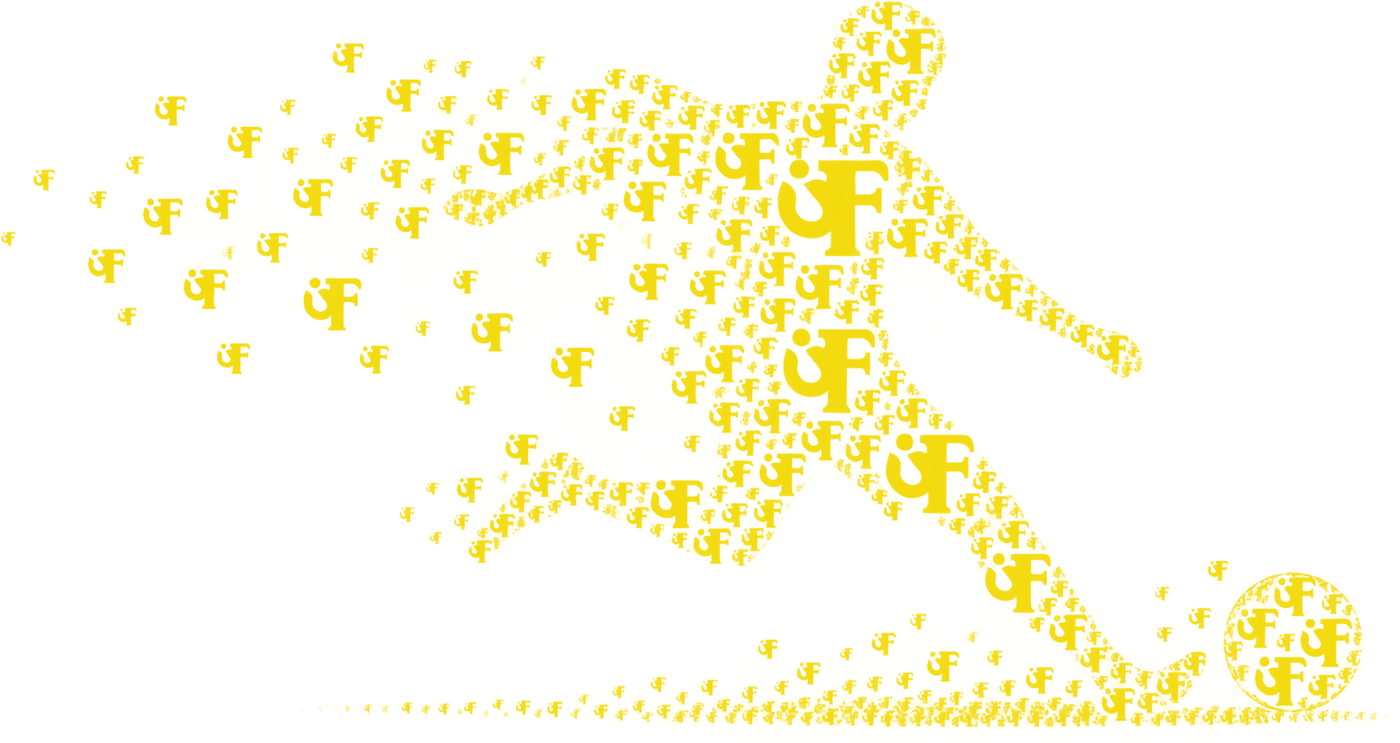
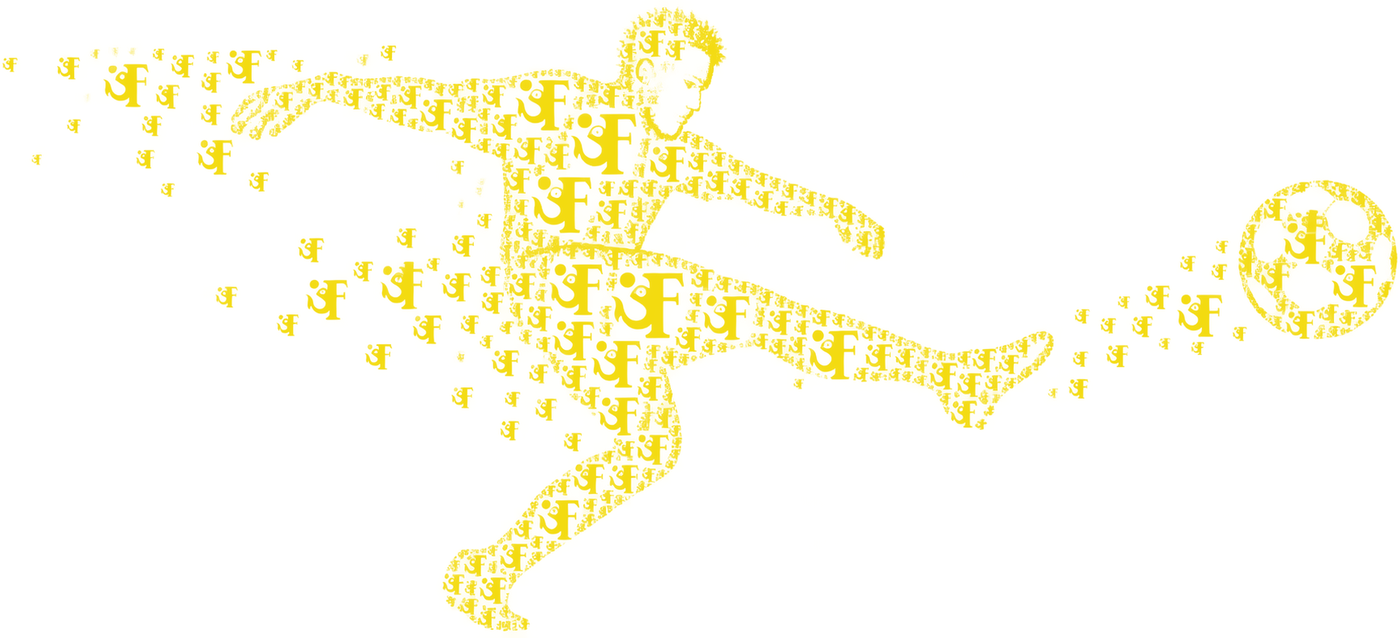
Neuer Spieler, ueber die volle Breite, und ein flacheres Chronikband
DREI AENDERUNGEN.

1. NEUES SPIELERBILD. fussballer.png ersetzt die erste Fassung. Die
   zeigte den Spieler viel loser aufgeloest, als Grund war die Figur
   kaum als Spieler zu erkennen, man sah vor allem Partikel. Der neue
   zeigt einen Schuss mit Ball.

   1983 x 793 angeliefert, mit Alphakanal, 91,2 Prozent transparent,
   0 Prozent schwarz. Beschnitten auf 1740 x 793, verarbeitet auf
   1400 x 638 und einfarbig auf Vereinsgelb gesetzt.

   DAS SEITENVERHAELTNIS HAT SICH GEAENDERT, von 1,88 auf 2,19. Die
   height-Angabe am Image musste mit, sonst rechnet Next mit einem
   falschen Kasten und das Bild springt beim Laden. An fuenf Stellen
   angepasst.

2. UEBER DIE VOLLE BREITE, auf Wunsch zum Ansehen. Vorher 1100 Pixel
   breit und links angeschnitten, jetzt die volle Abschnittsbreite.
   Kontrast unveraendert bei 5,29 zu 1 gegen die leise Schrift, null
   von 416020 gemessenen Punkten unter der Grenze von 4,5.

3. DAS CHRONIKBAND IST FLACHER, von 185 auf 145 Pixel. Der
   Auftraggeber fand es "viel zu hoch also dick".

   Gekuerzt an drei Stellen statt an einer: Innenabstand des Bandes von
   32 auf 20, Abstand zur Kopfzeile von 28 auf 20, Platz ueber den
   Baellen von 44 auf 32. Die Ballgroessen bleiben, sie tragen den
   Anstieg, und unter 18 Pixel verschwinden die Naehte des kleinsten.

   DABEI EIN EIGENER RECHENFEHLER, gemessen und behoben: Nach dem
   Kuerzen lag der ERSTE Ball 4 Pixel auf der Jahreszeile. Ich hatte
[…]

diff --git a/components/Erfolgstreppe.tsx b/components/Erfolgstreppe.tsx
@@ -64,6 +64,25 @@ import chronik from "@/content/chronik.json";
  */
 
 /*
+ * HÖHE DES BANDES, angepasst am 08.09.2026: Der Auftraggeber fand die
+ * gelbe Leiste "viel zu hoch also dick". Gemessen war sie 185 Pixel.
+ *
+ * Gekürzt wurde an drei Stellen, nicht an einer: der Innenabstand des
+ * Bandes von 32 auf 20 Pixel, der Abstand zur Kopfzeile von 28 auf 20,
+ * und der Platz über den Bällen von 44 auf 32. Zusammen rund 45 Pixel.
+ *
+ * Warum nicht einfach die Bälle kleiner: Sie tragen den Anstieg. Wird
+ * der kleinste unter 18 Pixel groß, verschwinden seine Nähte, und dann
+ * ist er wieder nur ein Fleck.
+ *
+ * Der Platz über den Bällen ist die Untergrenze und kein runder Wert:
+ * Der größte Ball hat 30 Pixel und sitzt 11 Pixel über der Grundlinie,
+ * reicht also von -9 bis 21. Bei 32 Pixeln Innenabstand bleiben 11
+ * Pixel Luft zur Jahreszeile. Wer weiter kürzt, schiebt den Ball in
+ * die Schrift.
+ */
+
+/*
  * Wie weit die vier Bälle über und unter der gedachten Grundlinie
  * sitzen, in Pixeln. Sie stehen hier und nicht in den Daten, weil sie
  * eine Gestaltungsentscheidung sind: gleichmäßig um 7 Pixel steigend,
@@ -89,6 +108,21 @@ const PUNKTE_Y = [10, 3, -4, -11];
  */
 const BALL_GROESSEN = [18, 22, 26, 30];
 
+/*
+ * Der Bezugspunkt, um den die Bälle steigen, in Pixeln von der Oberkante
+ * des Eintrags.
+ *
+ * 12 und nicht 17, und das ist nachgemessen: Beim Kürzen des Bandes am
+ * 08.09.2026 lag der ERSTE Ball plötzlich 4 Pixel auf der Jahreszeile.
+ * Mein Rechenfehler dabei war, den größten Ball zu prüfen. Der sitzt
+ * aber am höchsten. Der tiefste ist der kleinste, weil er 10 Pixel
+ * unter dem Bezugspunkt liegt.
+ *
+ * Wer hier etwas ändert, prüft den ERSTEN Ball gegen die Jahreszeile,
+ * nicht den letzten.
+ */
+const BALL_BEZUG = 12;
+
 export default function Erfolgstreppe() {
   const stufen = chronik.stufen;
 
@@ -98,7 +132,7 @@ export default function Erfolgstreppe() {
         Der Weg des SV Fisch
       </h2>
 
-      <div className="container-fisch py-8">
+      <div className="container-fisch py-5">
         <div className="flex items-baseline justify-between gap-4">
           <p className="text-[11px] font-extrabold uppercase tracking-[0.2em] opacity-70">
             Der Weg des SV Fisch
@@ -125,9 +159,9 @@ export default function Erfolgstreppe() {
           Pixeln Innenabstand begann die Jahreszahl darunter, der Punkt lag
           auf ihr.
         */}
-        <ol className="mt-5 grid grid-cols-2 gap-x-6 gap-y-5 sm:mt-7 sm:grid-cols-4 sm:gap-8">
+        <ol className="mt-4 grid grid-cols-2 gap-x-6 gap-y-4 sm:mt-5 sm:grid-cols-4 sm:gap-8">
           {stufen.map((stufe, i) => (
-            <li key={stufe.jahr} className="relative sm:pt-11">
+            <li key={stufe.jahr} className="relative sm:pt-8">
               {/*
                 KEINE LINIE MEHR. Hier lief bis zum 08.09.2026 eine
                 dünne schwarze Linie hinter den Markierungen durch.
@@ -157,7 +191,7 @@ export default function Erfolgstreppe() {
                 style={{
                   width: `${BALL_GROESSEN[i]}px`,
                   height: `${BALL_GROESSEN[i]}px`,
-                  top: `${17 + (PUNKTE_Y[i] ?? 0) - BALL_GROESSEN[i] / 2}px`,
+                  top: `${BALL_BEZUG + (PUNKTE_Y[i] ?? 0) - BALL_GROESSEN[i] / 2}px`,
                 }}
               />
               <p className="text-[11px] font-extrabold uppercase tracking-[0.18em] opacity-70">

diff --git a/app/page.tsx b/app/page.tsx
@@ -147,10 +147,21 @@ export default function Home() {
         {/*
           Der Spieler als Grund des Abschnitts, seit 08.09.2026.
 
-          Angeliefert als Fischspieler.png, sauber freigestellt (90,6
+          Angeliefert als fussballer.png, sauber freigestellt (91,2
           Prozent transparent, 0 Prozent Schwarz), auf das Vereinsgelb
-          umgefaerbt und auf 1400 mal 743 gebracht. Original und
+          umgefaerbt und auf 1400 mal 638 gebracht. Original und
           Verarbeitungsschritte unter assets/quellen.
+
+          ZWEITE FASSUNG. Die erste zeigte den Spieler viel loser
+          aufgeloest, und als Grund war die Figur kaum als Spieler zu
+          erkennen, man sah vor allem Partikel. Die Datei in public
+          heisst absichtlich weiter fischspieler.png, damit nur ein Bild
+          ausgeliefert wird.
+
+          Das Seitenverhaeltnis ist dabei von 1,88 auf 2,19 gewechselt.
+          Wer das Bild noch einmal tauscht, prueft die height-Angabe am
+          Image: Sie muss zur Datei passen, sonst rechnet Next mit einem
+          falschen Kasten und das Bild springt beim Laden.
 
           ZUR DECKKRAFT, weil hier schon einmal etwas schiefging: Im
           Kopfbereich lag frueher das Wappen mit 8 Prozent hinter dem
@@ -185,9 +196,9 @@ export default function Home() {
           src="/fischspieler.png"
           alt=""
           width={1400}
-          height={743}
+          height={638}
           aria-hidden="true"
-          className="pointer-events-none absolute -left-40 bottom-0 hidden w-[1100px] max-w-none opacity-[0.26] sm:block"
+          className="pointer-events-none absolute inset-x-0 bottom-0 hidden w-full opacity-[0.26] sm:block"
         />
 
         {/* relative, damit der Inhalt ueber dem Motiv liegt. */}

diff --git a/components/vorschau/SpielerVarianten.tsx b/components/vorschau/SpielerVarianten.tsx
@@ -47,7 +47,7 @@ export function SpielerGrund() {
       src="/fischspieler.png"
       alt=""
       width={1400}
-      height={743}
+      height={638}
       aria-hidden="true"
       className="pointer-events-none absolute -left-40 bottom-0 hidden w-[1100px] max-w-none opacity-[0.14] sm:block"
     />
@@ -83,7 +83,7 @@ export function SpielerRechtsUnten() {
       src="/fischspieler.png"
       alt=""
       width={1400}
-      height={743}
+      height={638}
       aria-hidden="true"
       className="pointer-events-none absolute -bottom-8 -right-16 hidden w-[300px] max-w-none opacity-90 sm:block"
     />
@@ -113,7 +113,7 @@ export function SpielerBand() {
         src="/fischspieler.png"
         alt=""
         width={1400}
-        height={743}
+        height={638}
         aria-hidden="true"
         className="absolute -bottom-24 left-1/2 w-[900px] max-w-none -translate-x-1/2 opacity-40"
       />
@@ -141,7 +141,7 @@ export function SpielerLuecke() {
       src="/fischspieler.png"
       alt=""
       width={1400}
-      height={743}
+      height={638}
       aria-hidden="true"
       className="pointer-events-none absolute -bottom-4 left-[352px] hidden w-[420px] max-w-none opacity-80 sm:block"
     />

diff --git a/assets/quellen/LIESMICH.md b/assets/quellen/LIESMICH.md
@@ -21,3 +21,22 @@ Daraus wurde `public/fussballschuhe.png` (153 x 320, 11 KB):
 **Reihenfolge beachten, falls das jemand wiederholt:** erst skalieren,
 dann umfärben. Beim Skalieren entstehen an den Kanten Mischpixel mit
 abweichender Farbe, die sonst als blasser Saum stehen bleiben.
+
+## fussballer-original.png
+
+Angeliefert am 08.09.2026, 1983 x 793 Pixel, mit Alphakanal, 91,2
+Prozent transparent, 8,8 Prozent gelb, 0 Prozent schwarz.
+
+Daraus wird `public/fischspieler.png` (1400 x 638, 251 KB): beschnitten
+auf 1740 x 793, auf 1400 Pixel Breite verkleinert, einfarbig auf das
+Vereinsgelb rgb(243, 218, 11) gesetzt.
+
+**Ersetzt die frühere Fassung vom selben Tag.** Die hatte dieselbe Idee,
+zeigte den Spieler aber viel loser aufgelöst: Beim Einbau als Grund war
+die Figur kaum als Spieler zu erkennen, man sah vor allem Partikel. Der
+Dateiname in `public/` ist absichtlich gleich geblieben, damit nur ein
+Bild ausgeliefert wird und kein totes zweites im Verzeichnis liegt.
+
+Die Zeichnung enthielt einige wenige rote Pixel (0,00 Prozent, also ein
+paar Dutzend). Sie verschwinden durch das einfarbige Setzen von selbst
+und brauchten keine eigene Behandlung.
